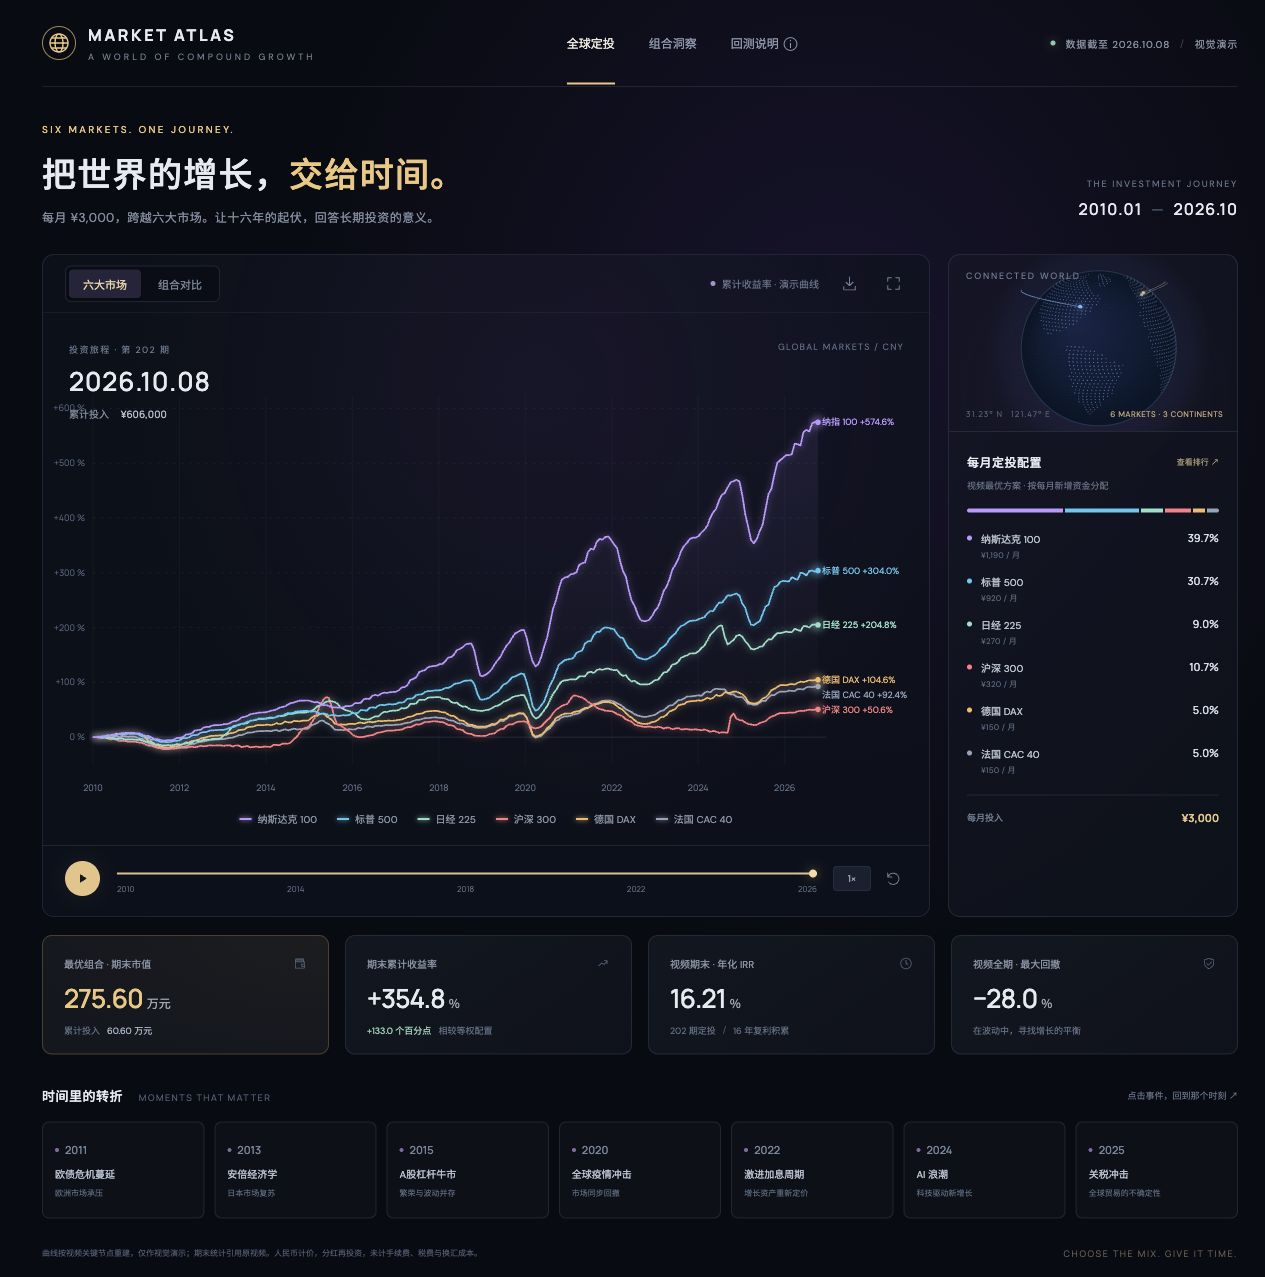
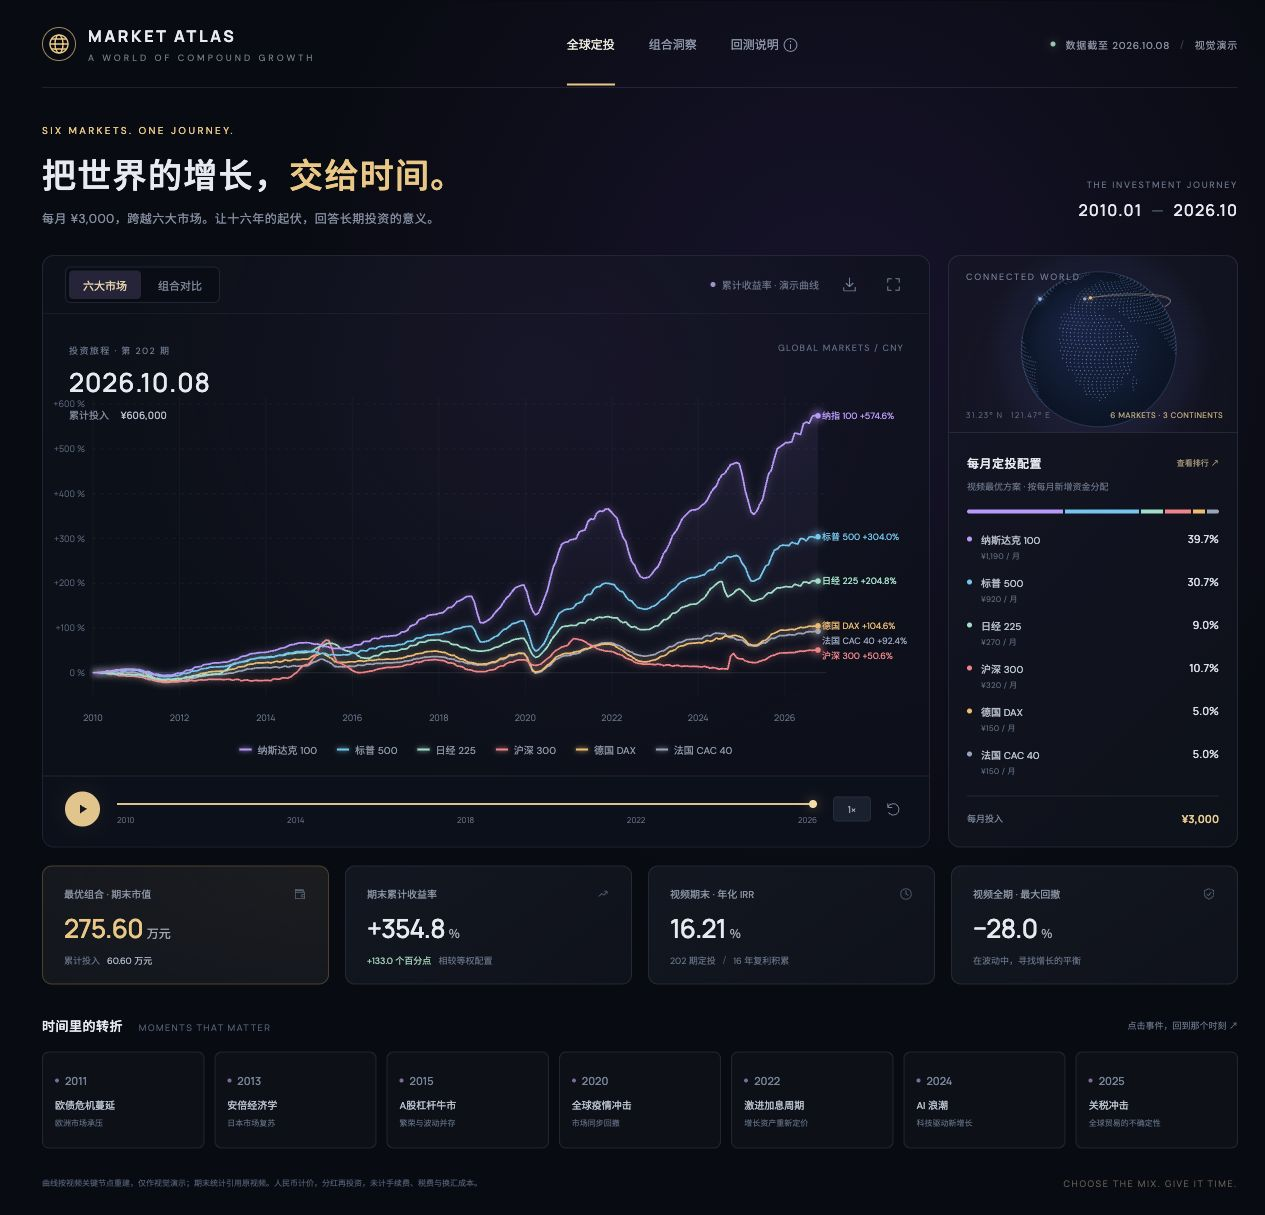
Fix mobile chart sizing and package portable static build

diff --git a/src/style.css b/src/style.css
@@ -11,3 +11,7 @@
 @media(max-width:380px){.side-panel{grid-template-columns:90px minmax(0,1fr)}.market-list{grid-template-columns:1fr}.brand-sub{max-width:140px;font-size:5px}.brand-name{font-size:10px}.toplinks{gap:8px}.toplinks button{font-size:9px}.hero h1{font-size:23px}}
 .stage{display:flex;flex-direction:column}.chart-area{flex:1}
 .stage.expanded{position:fixed;inset:12px;z-index:50;background:#0b0e16;box-shadow:0 0 0 30px #070a12,0 0 0 100vmax #070a12eb}.stage.expanded .chart-area{height:auto;min-height:0}.stage.expanded .chart-date{font-size:32px}.stage.expanded .chart-legend{padding:18px}
+.chart-area{flex:1 0 385px}
+@media(max-width:850px){.chart-area{flex-basis:380px}}
+@media(max-width:540px){.chart-area{flex-basis:335px}}
+.stage:fullscreen .chart-area,.stage.expanded .chart-area{flex:1 1 0;min-height:0}

diff --git a/README.md b/README.md
@@ -36,7 +36,7 @@ GitHub Releases 提供两种 ZIP：
 
 源码包解压后，进入 `market-atlas/`，执行 `npm ci` 和 `npm run dev`。部署包无需安装 Node.js，将解压后的全部文件放到静态服务器根目录即可。
 
-默认构建面向网站根目录。若部署在 `/market-atlas/` 这样的子路径，使用 `npm run build -- --base=/market-atlas/` 重新构建，再上传新的 `dist/` 内容。
+构建资源使用相对路径，可放在网站根目录，也可放在 `/market-atlas/` 这样的普通子目录。请通过 HTTP 静态服务器访问，不要直接双击 HTML 文件。
 
 ## 页面功能
 
